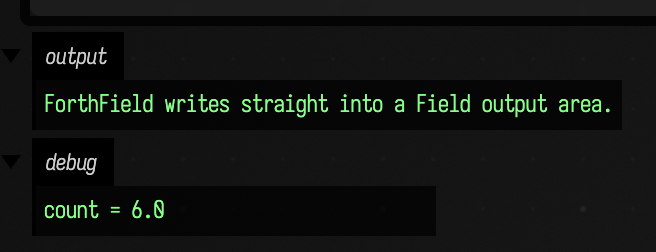
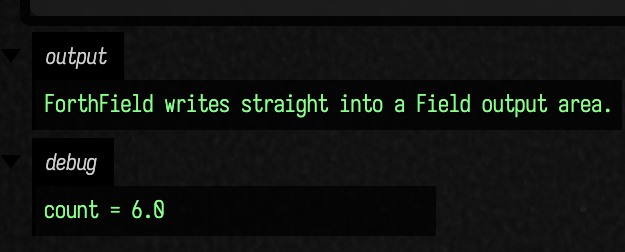
forth_examples: recapture forth-output-channels; alt text describes it

diff --git a/public/docs/forth_examples.md b/public/docs/forth_examples.md
@@ -82,7 +82,7 @@ expect:
     kind: box
     padding: 16
 -->
-```diffstatic_runner {data-lang=forth screenshot="assets/forth_examples/variables_and_output_channels.png" alt="two output panels. The one labelled output holds the sentence Forth can emit HTML into Field output areas, wrapped in the literal markup for bold with its angle brackets shown as text rather than applied, and the one labelled debug holds count = 6.0. The first line is not what the code beside it produces: this capture predates the change that stopped the example asking display to emit HTML, and a re-render is owed. See docs_capture_staleness in dev_docs" wait="1.0" capture="box" trim=true embed=true name="forth-output-channels"}
+```diffstatic_runner {data-lang=forth screenshot="assets/forth_examples/variables_and_output_channels.png" alt="Two output panels: the one labelled output holds the sentence ForthField writes straight into a Field output area., and the one labelled debug holds count = 6.0" wait="1.0" capture="box" trim=true embed=true name="forth-output-channels"}
 :::static
 variable count
 0 count !
